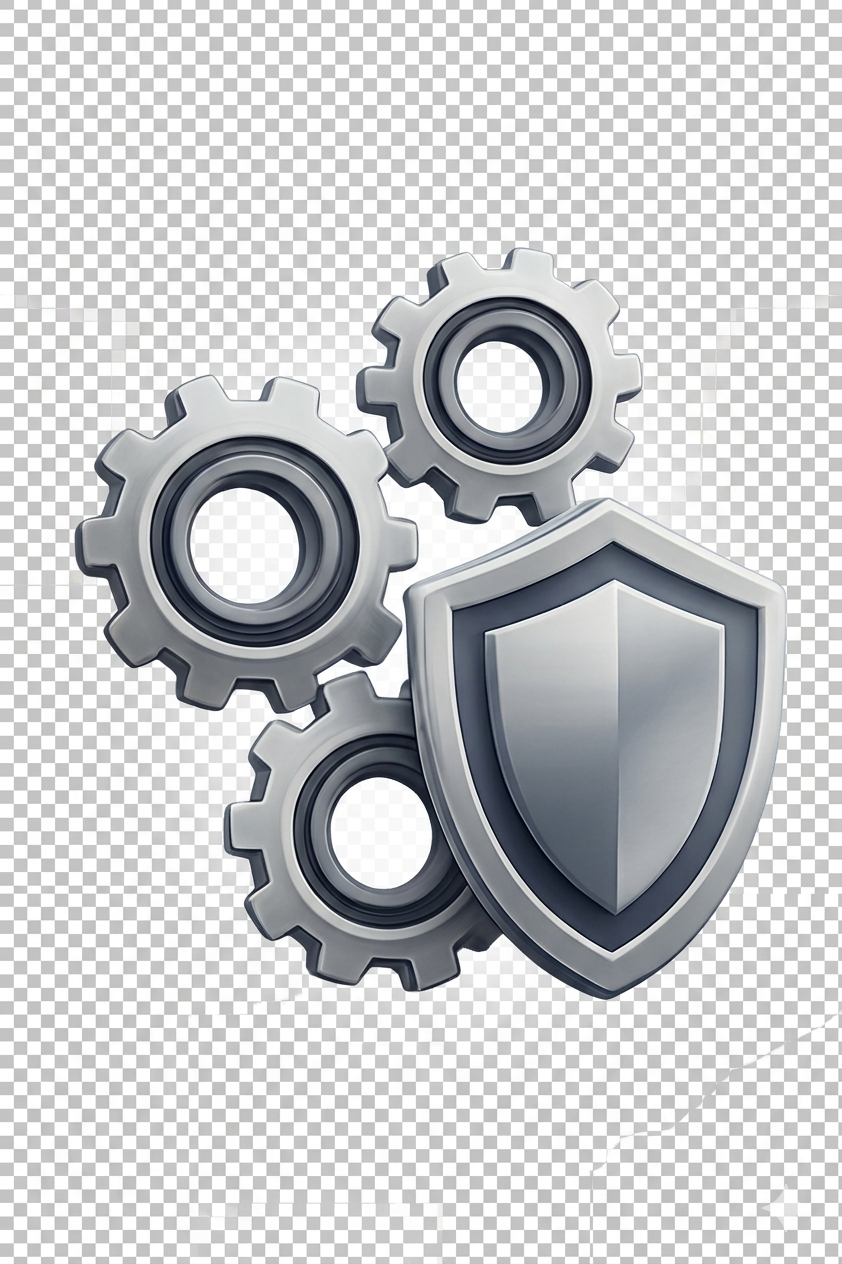
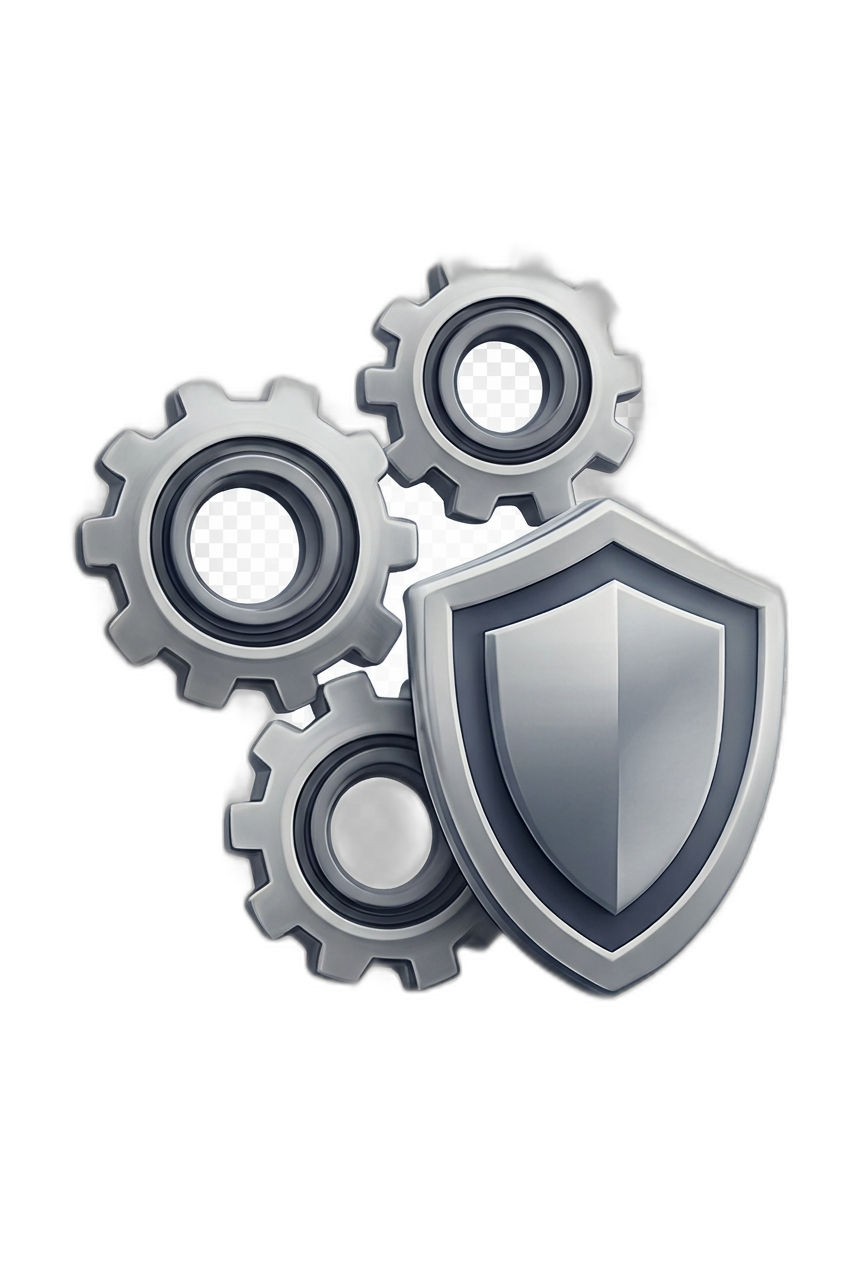
xx

diff --git a/lib/veiw/userscreen/screen/profile/profile.dart b/lib/veiw/userscreen/screen/profile/profile.dart
@@ -1,12 +1,10 @@
 import 'dart:ui';
 
-import 'package:cached_network_image/cached_network_image.dart';
 import 'package:flutter/material.dart';
 import 'package:get/get.dart';
 import 'package:hos/core/conistant/imageasset.dart';
 import 'package:hos/core/conistant/routs.dart';
 import 'package:hos/core/serveces/myservisec.dart';
-import 'package:hos/veiw/userscreen/screen/profile/order/paymentmethods.dart';
 import 'package:hos/veiw/userscreen/screen/profile/settings/settings.dart';
 
 class ProfilePage extends StatelessWidget {
@@ -44,18 +42,22 @@ class ProfilePage extends StatelessWidget {
                   Row(
                     mainAxisAlignment: MainAxisAlignment.spaceEvenly,
                     children: [
-                      OrderCard("الطلبات و\nالمشتريات", Imageasset.google, () {
+                      OrderCard("الطلبات و\nالمشتريات", Imageasset.order, () {
                         Get.toNamed(Approute.Orders);
                       }),
                       OrderCard("نقاط\nالمكافأه", Imageasset.goold, () {}),
-                      OrderCard("الاعدادات و\nالخصوصيه", Imageasset.settings, () {
-                        Get.to(
-                          () => Settings(),
-                          transition: Transition.fadeIn,
-                          duration: Duration(milliseconds: 400),
-                          curve: Curves.fastOutSlowIn,
-                        );
-                      }),
+                      OrderCard(
+                        "الاعدادات و\nالخصوصيه",
+                        Imageasset.settings,
+                        () {
+                          Get.to(
+                            () => Settings(),
+                            transition: Transition.fadeIn,
+                            duration: Duration(milliseconds: 400),
+                            curve: Curves.fastOutSlowIn,
+                          );
+                        },
+                      ),
                     ],
                   ),
 
@@ -251,8 +253,9 @@ Widget OrderCard(String title, String image, Function()? onTap) {
           radius: 1.2,
           colors: [
             Color(0xFF555A60), // الدرجة الفاتحة المائل للرمادي/الفضي في المنتصف
-            Color(0xFF2C2F33), // الدرجة الأغمق اللي بتقفل على الأطراف
-            Color(0xFF1A1C1E), // الدرجة الداكنة جداً عند الزوايا
+            Color.fromARGB(255, 144, 148, 153), // الدرجة الأغمق اللي بتقفل على الأطراف
+            Color(0xFF1A1C1E), 
+            // الدرجة الداكنة جداً عند الزوايا
           ],
           stops: const [0.0, 0.6, 1.0],
         ),
@@ -265,11 +268,11 @@ Widget OrderCard(String title, String image, Function()? onTap) {
         ],
       ),
       height: 300,
-      width: 130,
+      width: 120,
       child: Column(
-        mainAxisAlignment: MainAxisAlignment.spaceAround,
+        mainAxisAlignment: MainAxisAlignment.center,
         children: [
-          Text(
+          Text(textAlign: TextAlign.center,
             title,
             style: TextStyle(
               fontSize: 25,
@@ -277,8 +280,8 @@ Widget OrderCard(String title, String image, Function()? onTap) {
               fontWeight: FontWeight.bold,
             ),
           ),
-          SizedBox(height: 10),
           Image.asset(
+            filterQuality: FilterQuality.low,fit: BoxFit.cover,
             image,
             errorBuilder: (context, imageProvider, s) =>
                 Icon(Icons.error_outline),

diff --git a/lib/main.dart b/lib/main.dart
@@ -5,6 +5,7 @@ import 'package:hos/core/localization/transilation.dart';
 import 'package:hos/core/serveces/binding.dart';
 
 import 'package:hos/core/serveces/myservisec.dart';
+import 'package:hos/veiw/userscreen/screen/profile/profile.dart';
 
 import 'core/localization/changlocal.dart';
 
@@ -23,7 +24,7 @@ class MyApp extends StatelessWidget {
   Widget build(BuildContext context) {
     LocalController controller = Get.put(LocalController());
     return GetMaterialApp(
-      // home: MyAnimatedList(),
+      // home: ProfilePage(),
       debugShowCheckedModeBanner: false,
       initialBinding: MyBinding(),
       locale: controller.language,

diff --git a/lib/core/conistant/imageasset.dart b/lib/core/conistant/imageasset.dart
@@ -28,5 +28,6 @@ class Imageasset {
   static String filter = "$routeImage/filter-svgrepo-com.svg";
   static String search = "$routeImage/search-alt-2-svgrepo-com.svg";
   static String settings = "$routeImage/setting.png";
-  static String goold = "$routeImage/output_transparent.png";
+  static String goold = "$routeImage/sc.png";
+  static String order = "$routeImage/order.png";
 }
